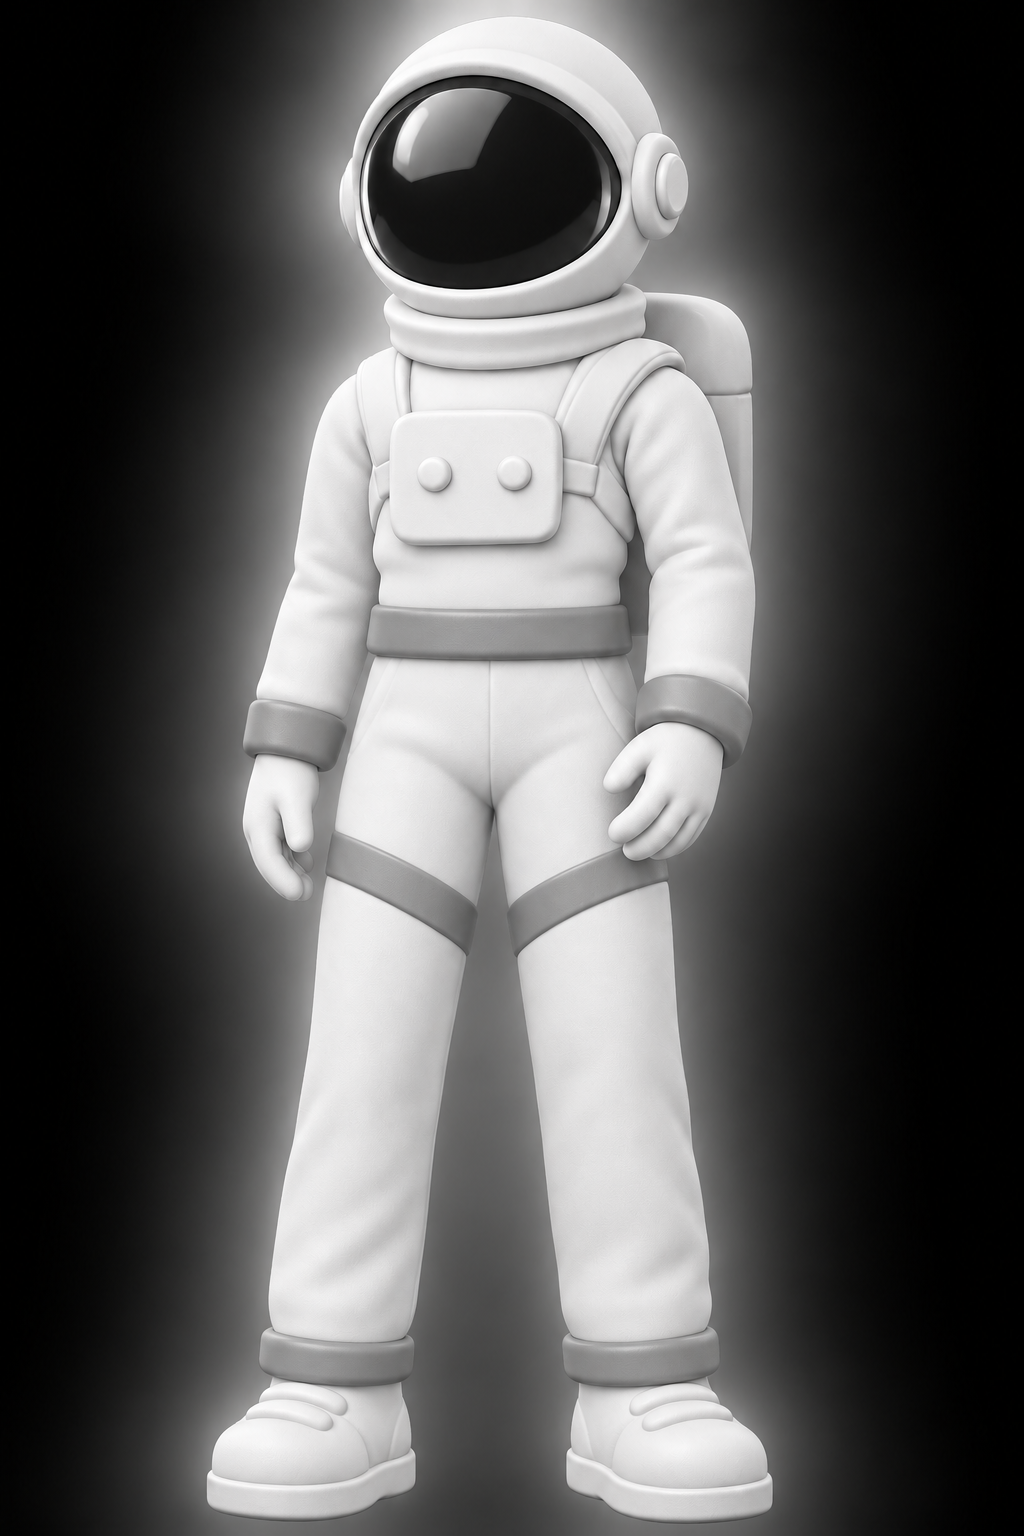
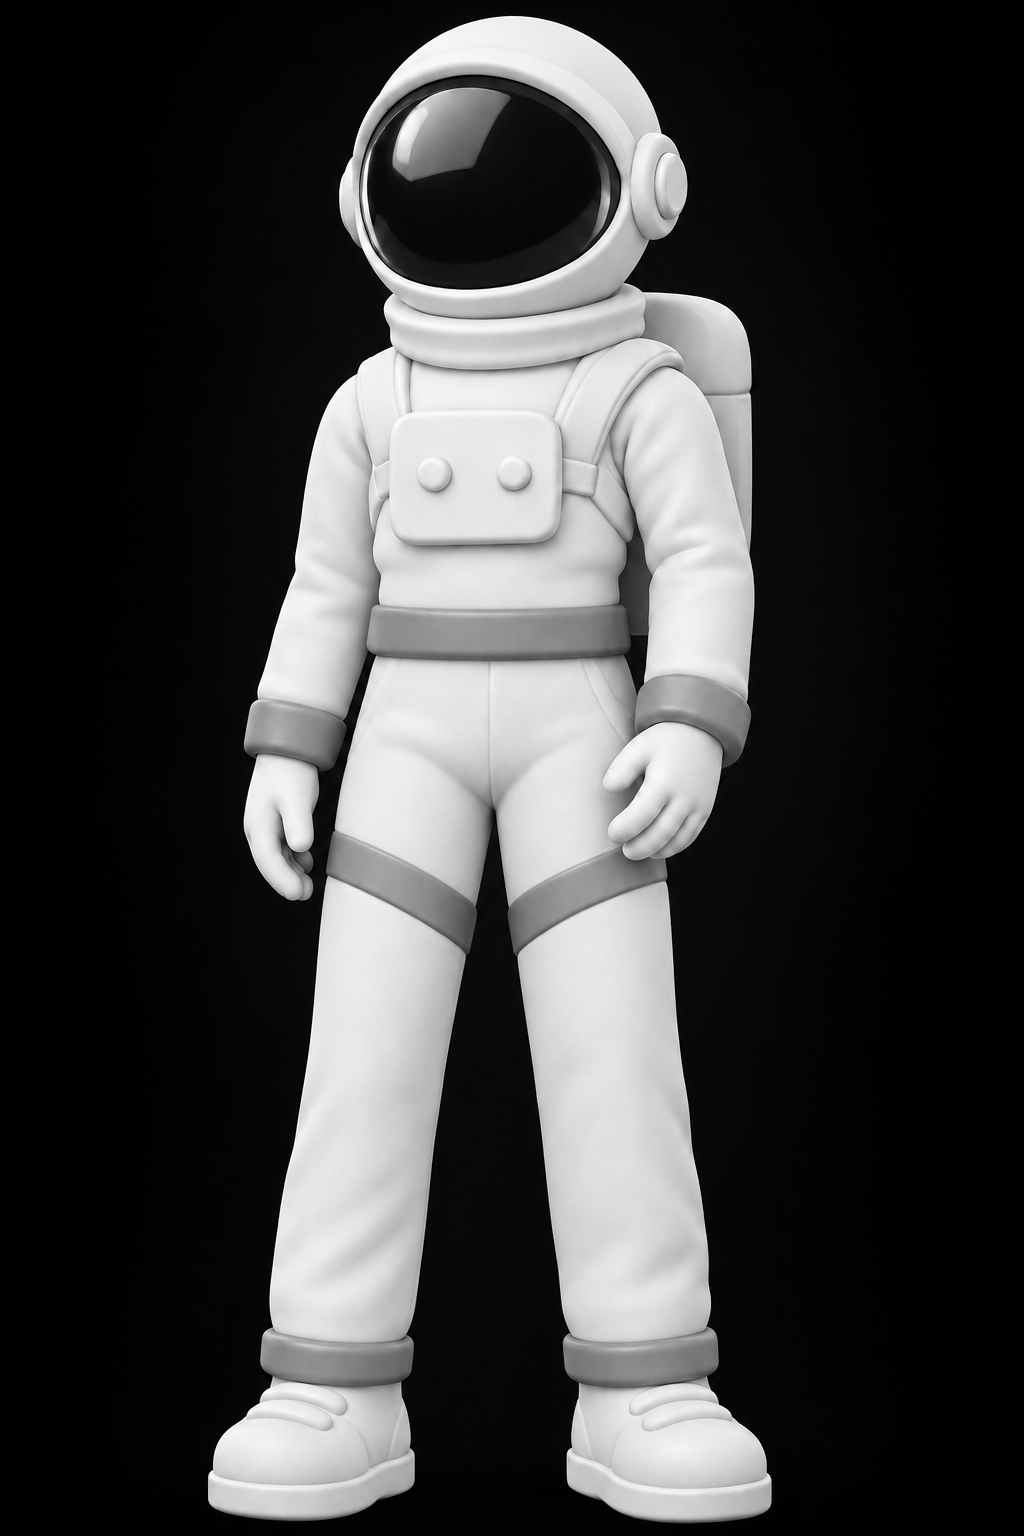
Dim spacesuit backdrop and clarify AI image credits

diff --git a/src/components/body/evaVisor.css b/src/components/body/evaVisor.css
@@ -49,6 +49,8 @@
 .eva-prep { display: grid; grid-template-columns: minmax(200px, 0.8fr) minmax(0, 1.2fr) minmax(0, 1fr); gap: 16px; align-items: start; }
 .eva-prep__suit { margin: 0; grid-row: span 2; position: relative; background: radial-gradient(circle at 50% 35%, #1d2c33, var(--eva-bg) 70%); border: 1px solid var(--eva-line); border-radius: 18px; padding: 16px; text-align: center; }
 .eva-prep__suit img { display: block; width: 100%; max-height: 520px; height: auto; object-fit: contain; }
+.eva-prep__portrait { position: relative; }
+.eva-prep__image-credit { position: absolute; bottom: 6px; left: 8px; color: #e8edf4; font-size: 10px; text-shadow: 0 1px 2px #080d15; }
 .eva-prep__suit figcaption { margin-top: 10px; }
 .eva-prep__timeline { grid-column: 2 / -1; display: grid; gap: 10px; }
 .eva-check { list-style: none; margin: 0; padding: 0; display: grid; }

diff --git a/src/components/body/EvaVisor.tsx b/src/components/body/EvaVisor.tsx
@@ -96,7 +96,10 @@ function PrepScreen({ onStart, onClose }: { onStart: () => void; onClose: () => 
 
       <div className="eva-prep">
         <figure className="eva-prep__suit">
-          <img src={suitImage} alt="Spacesuit" width={1024} height={1536} />
+          <div className="eva-prep__portrait">
+            <img src={suitImage} alt="Spacesuit" width={1024} height={1536} />
+            <span className="eva-prep__image-credit"><span aria-hidden="true">✦ </span>AI-generated content</span>
+          </div>
           <figcaption className={`eva-state eva-state--${ready ? 'green' : 'yellow'}`}>{ready ? 'Ready to go out' : 'Check before going out'}</figcaption>
         </figure>
 

diff --git a/src/pages/BodySensorsPage.tsx b/src/pages/BodySensorsPage.tsx
@@ -197,7 +197,7 @@ function ProfileBodyMap({ tab, onSelectTab, onLogSymptom, children }: {
             );
           })}
         </div>
-        <div style={{ padding: '2px 8px 8px', fontSize: 10, color: orbit ? '#e8edf4' : '#343945' }}>
+        <div style={{ padding: '2px 8px 8px', fontSize: 10, color: '#000' }}>
           <span aria-hidden="true">✦ </span>AI-generated content
         </div>
       </div>
